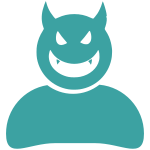
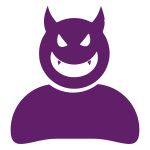
Mudança no botão de invocar nome do capeta

diff --git a/_sass/_animation.scss b/_sass/_animation.scss
@@ -1,0 +1,80 @@
+@-webkit-keyframes swing {
+    15% {
+        -webkit-transform: translateX(5px);
+        transform: translateX(5px);
+    }
+
+    30% {
+        -webkit-transform: translateX(-5px);
+        transform: translateX(-5px);
+    }
+
+    50% {
+        -webkit-transform: translateX(3px);
+        transform: translateX(3px);
+    }
+
+    65% {
+        -webkit-transform: translateX(-3px);
+        transform: translateX(-3px);
+    }
+
+    80% {
+        -webkit-transform: translateX(2px);
+        transform: translateX(2px);
+    }
+
+    100% {
+        -webkit-transform: translateX(0);
+        transform: translateX(0);
+    }
+}
+
+@keyframes swing {
+    15% {
+        -webkit-transform: translateX(5px);
+        transform: translateX(5px);
+    }
+
+    30% {
+        -webkit-transform: translateX(-5px);
+        transform: translateX(-5px);
+    }
+
+    50% {
+        -webkit-transform: translateX(3px);
+        transform: translateX(3px);
+    }
+
+    65% {
+        -webkit-transform: translateX(-3px);
+        transform: translateX(-3px);
+    }
+
+    80% {
+        -webkit-transform: translateX(2px);
+        transform: translateX(2px);
+    }
+
+    100% {
+        -webkit-transform: translateX(0);
+        transform: translateX(0);
+    }
+}
+
+@keyframes effect_dylan {
+    50% {
+        transform: scale(1.5, 1.5);
+        opacity: 0;
+    }
+
+    99% {
+        transform: scale(0.001, 0.001);
+        opacity: 0;
+    }
+
+    100% {
+        transform: scale(0.001, 0.001);
+        opacity: 1;
+    }
+}

diff --git a/assets/css/style.scss b/assets/css/style.scss
@@ -1,5 +1,7 @@
 ---
 ---
+
+@import '_animation';
 $white: #FFFFFF;
 
 .home-breadcrumb {
@@ -14,6 +16,63 @@ $white: #FFFFFF;
     h1{
         color: #611F6A;
     }
+}
+
+.speech-bubble {
+	position: relative;
+	background: #611F6A;
+    border-radius: .5em;
+    margin-bottom: 50px;
+    h1{
+        color: $white;
+    }
+    padding: 20px;
+
+}
+
+.speech-bubble:after {
+	content: '';
+	position: absolute;
+	bottom: 0;
+	left: 53%;
+	width: 0;
+	height: 0;
+	border: 50px solid transparent;
+	border-top-color: #611F6A;
+	border-bottom: 0;
+	border-left: 0;
+	margin-left: -25px;
+	margin-bottom: -50px;
+}
+
+.btn-devil{
+
+    display: inline-block;
+    width: 150px;
+    height: 150px;
+
+    background-image: url("{{'assets/images/user.png' | relative_url}}");
+    background-position: center;
+    border-bottom: none !important;
+    transition: all 0.5s ease-in;
+
+    //start click effect
+    &:before {
+        content: '';
+        filter: brightness(70%);
+    }
+    &:active {
+        filter: brightness(50%);
+        transition: all 0.5s ease-out;
+    }
+}
+
+.swing:hover
+{
+    -webkit-animation: swing 1s ease;
+    animation: swing 1s ease;
+    -webkit-animation-iteration-count: 1;
+    animation-iteration-count: 1;
 }
 
 .page-footer {

diff --git a/invocacao.html b/invocacao.html
@@ -3,20 +3,23 @@ title: Invocação de Nome do Capeta
 layout: default
 ---
 
+<div class="container">
+    <div class="row">
+        <div class="col-sm text-white">
+            <div class="speech-bubble text-center">
+                <h1 class="display-4" id="devil-name">O Coiso</h1>
+            </div>
+
+        </div>
+    </div>
+</div>
 
 <div class="container">
     <div class="row">
-        <div class="col-sm">
-
-            <div class="jumbotron text-center jumbotron-invocador">
-                <h1 class="display-4" id="devil-name">O Coiso</h1>
-                <p class="lead">Clique no botão para invocar um novo nome do capeta.</p>
-
-                <a id="button-random-name" class="btn btn-primary btn-lg" href="#" role="button">
-                    INVOCAR NOME DO CAPETA!
-                </a>
-            </div>
-
+        <div class="col-sm text-center">
+            <a id="button-random-name" class="btn-devil swing" href="#" role="button">
+            </a>
+            <p class="lead">Clique no capiroto para invocar um novo nome do capeta.</p>
         </div>
 
     </div>
